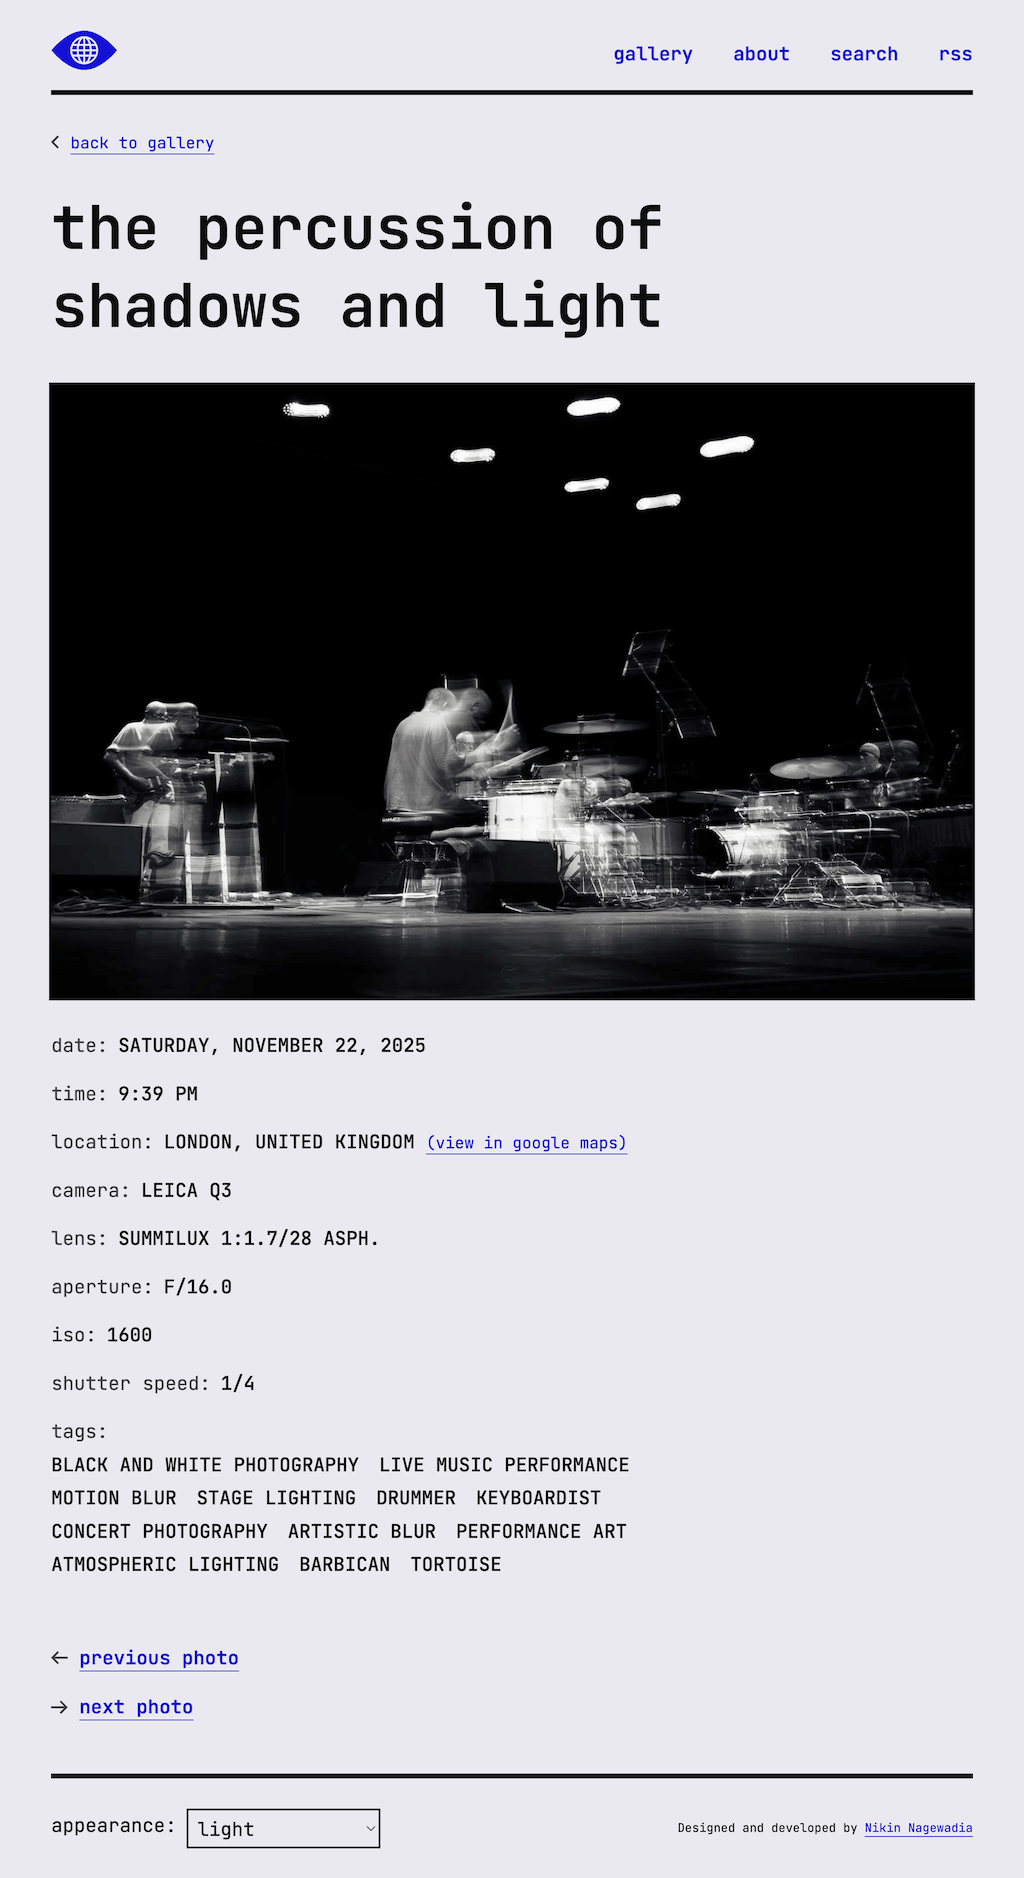
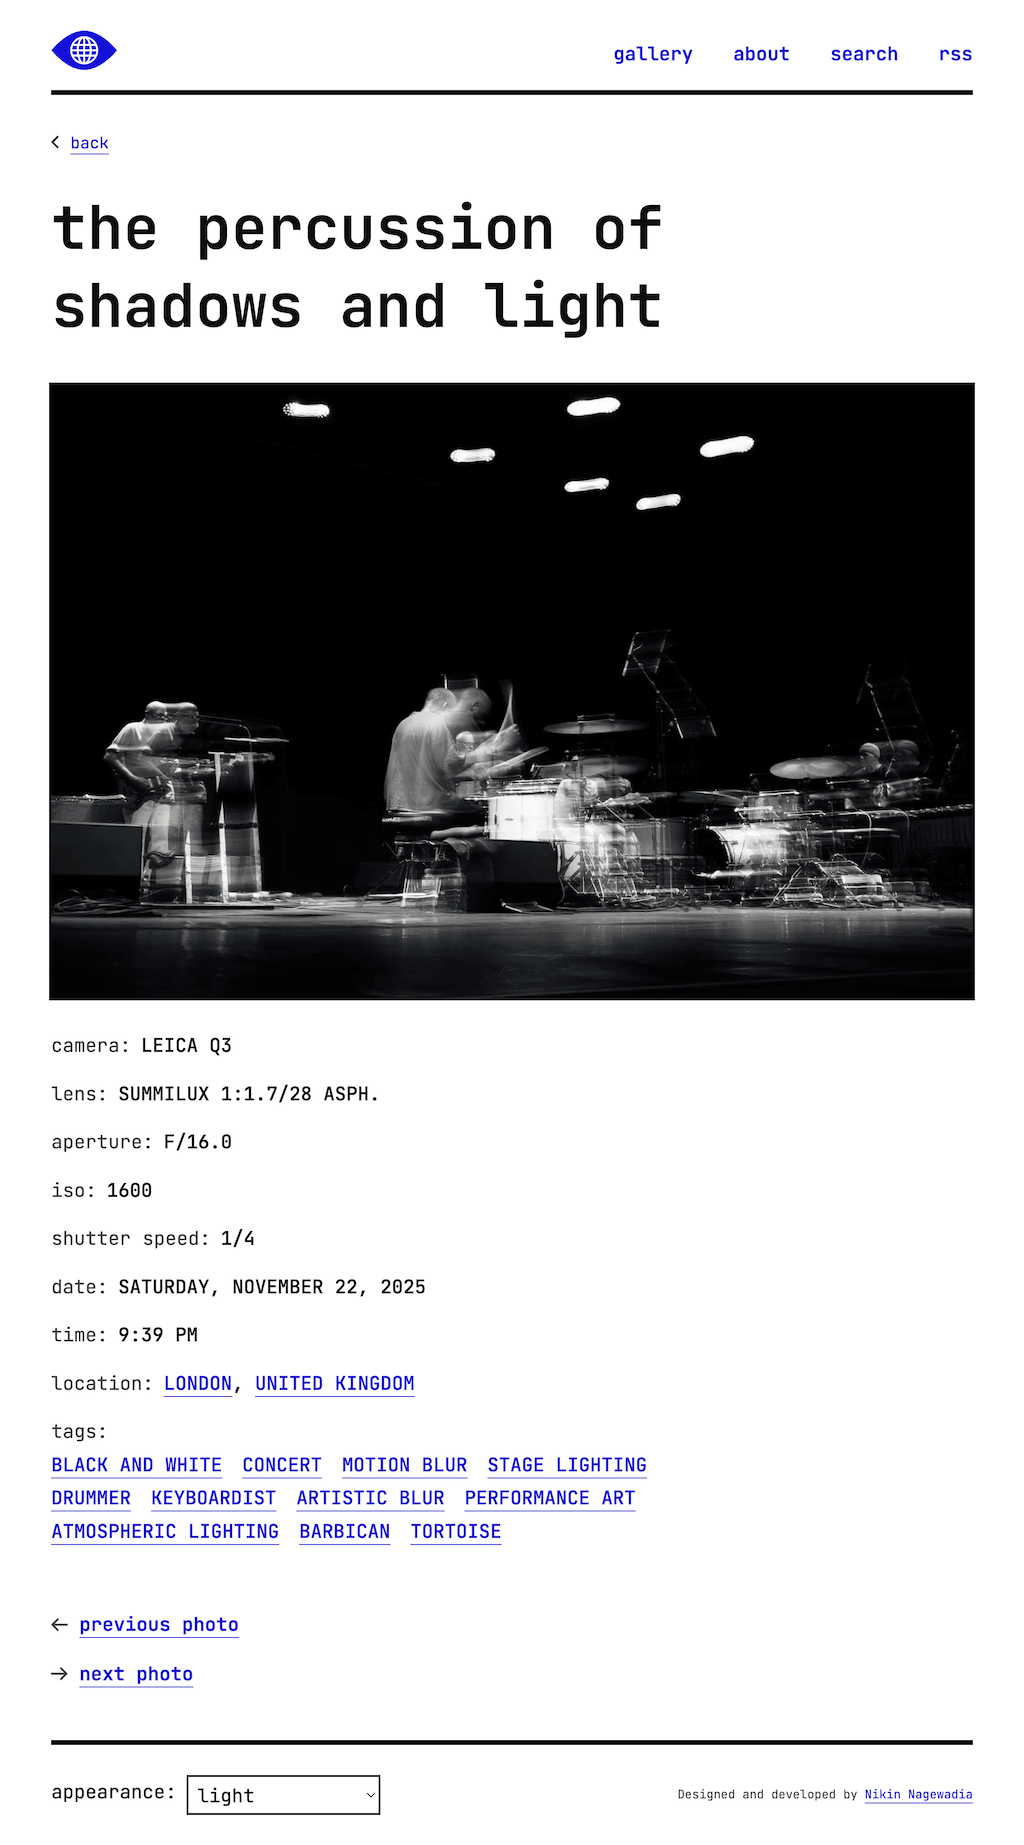
Update images

diff --git a/src/scss/_layout.scss b/src/scss/_layout.scss
@@ -60,7 +60,7 @@ main {
   gap: var(--pixel-20);
 
   > * {
-    flex: 1 1 300px;
+    flex: 1 1 330px;
   }
 
   img {

diff --git a/src/case-study/everyday-lens.md b/src/case-study/everyday-lens.md
@@ -40,15 +40,23 @@ opengraphImageAltText:
     <figure>
       <div class="side-by-side-images">
         <div>
-          <small class="figure-label">Figure 1</small>
-          <img class="image-outline" src="visuals/json.png" alt="Screenshot of a JSON file containing both AI-generated metadata and camera extracted metadata.">
+          <small class="figure-label">Figure 1a</small>
+          <img class="image-outline" src="visuals/json_1.png" alt='Screenshot of the metadata for the photograph entitled, "The Percussion of Shadows and Light".'>
         </div>
         <div>
-          <small class="figure-label">Figure 2</small>
-          <img class="image-outline" src="visuals/the-percussion-of-shadows-and-light.png" alt="Web page with a black and white photo of musicians performing with motion blur.">
+          <small class="figure-label">Figure 2a</small>
+          <img class="image-outline" src="visuals/the-percussion-of-shadows-and-light.png" alt='Web page containing the photograph entitled, "The Percussion of Shadows and Light".'>
+        </div>
+        <div>
+          <small class="figure-label">Figure 1b</small>
+          <img class="image-outline" src="visuals/json_2.png" alt='Screenshot of the metadata for the photograph entitled, "The Narrow Hour".'>
+        </div>
+        <div>
+          <small class="figure-label">Figure 2b</small>
+          <img class="image-outline" src="visuals/the-narrow-hour.png" alt='Web page containing the photograph entitled, "The Narrow Hour".'>
         </div>
       </div>
-      <figcaption>Figure 1: AI-generated metadata — title, alt text, and tags — along with the camera extracted metadata stored as JSON. Figure 2: The published result, built from those data points.</figcaption>
+      <figcaption>Figure 1a and 1b: AI-generated metadata — title, alt text, and tags — along with the camera extracted metadata stored as JSON. Figure 2a and 2b: The published result, built from those data points.</figcaption>
     </figure>
   </section>
   
